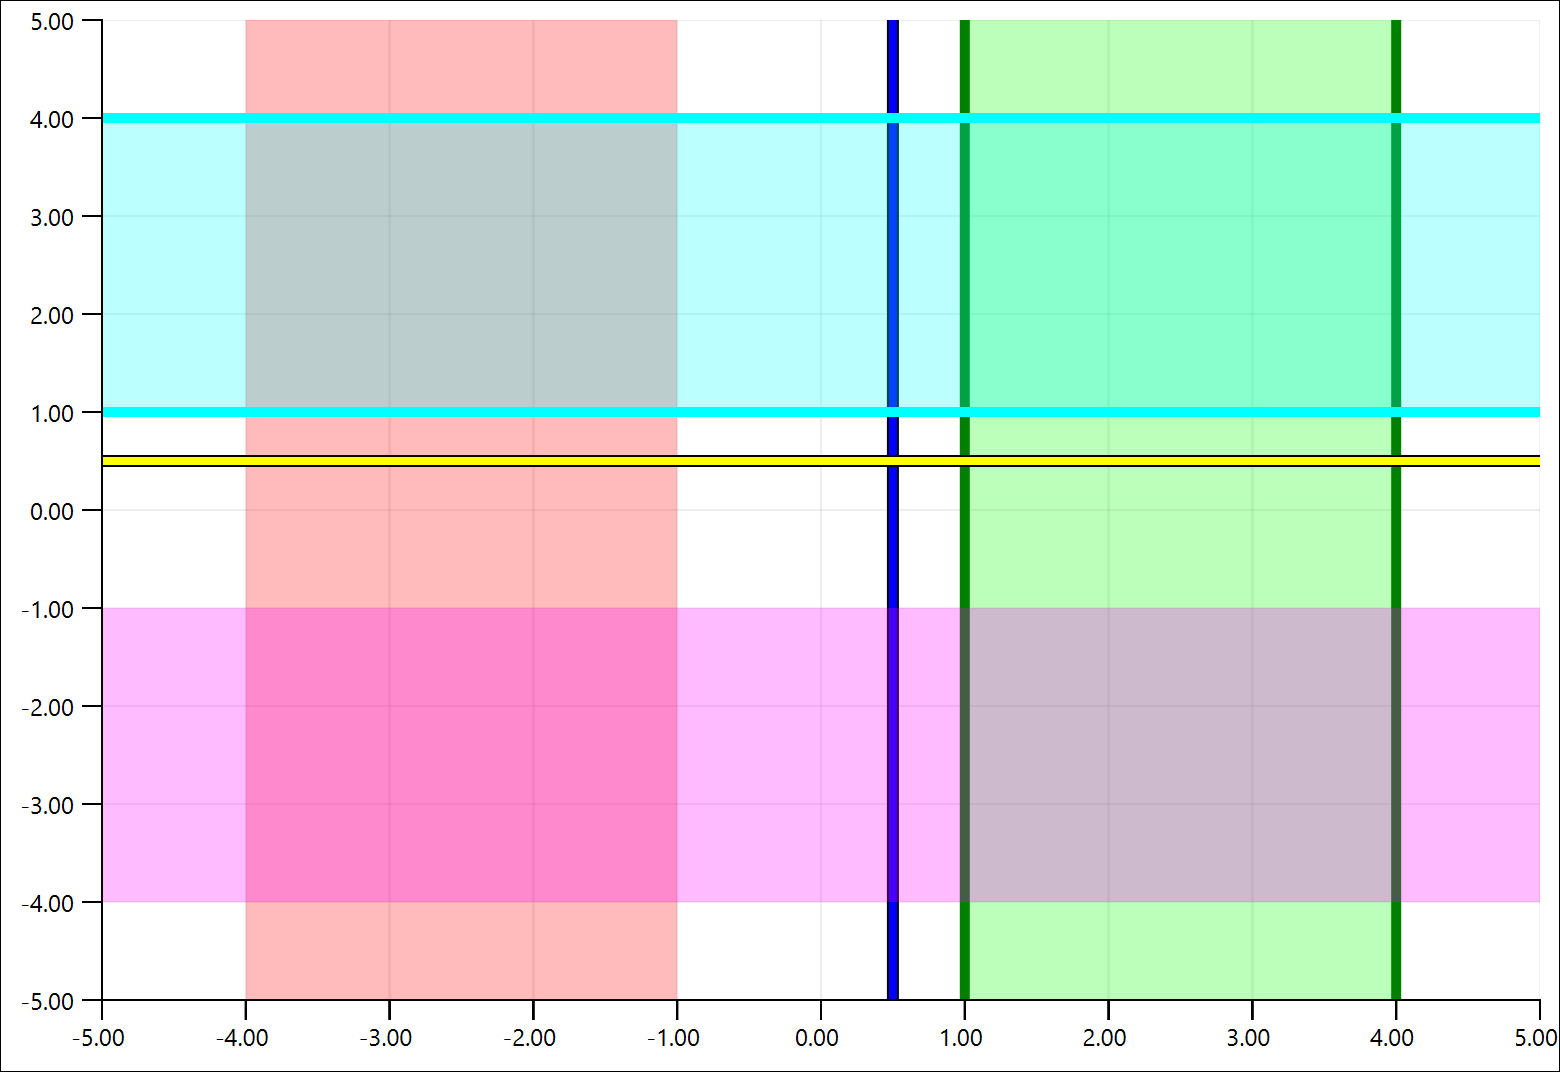
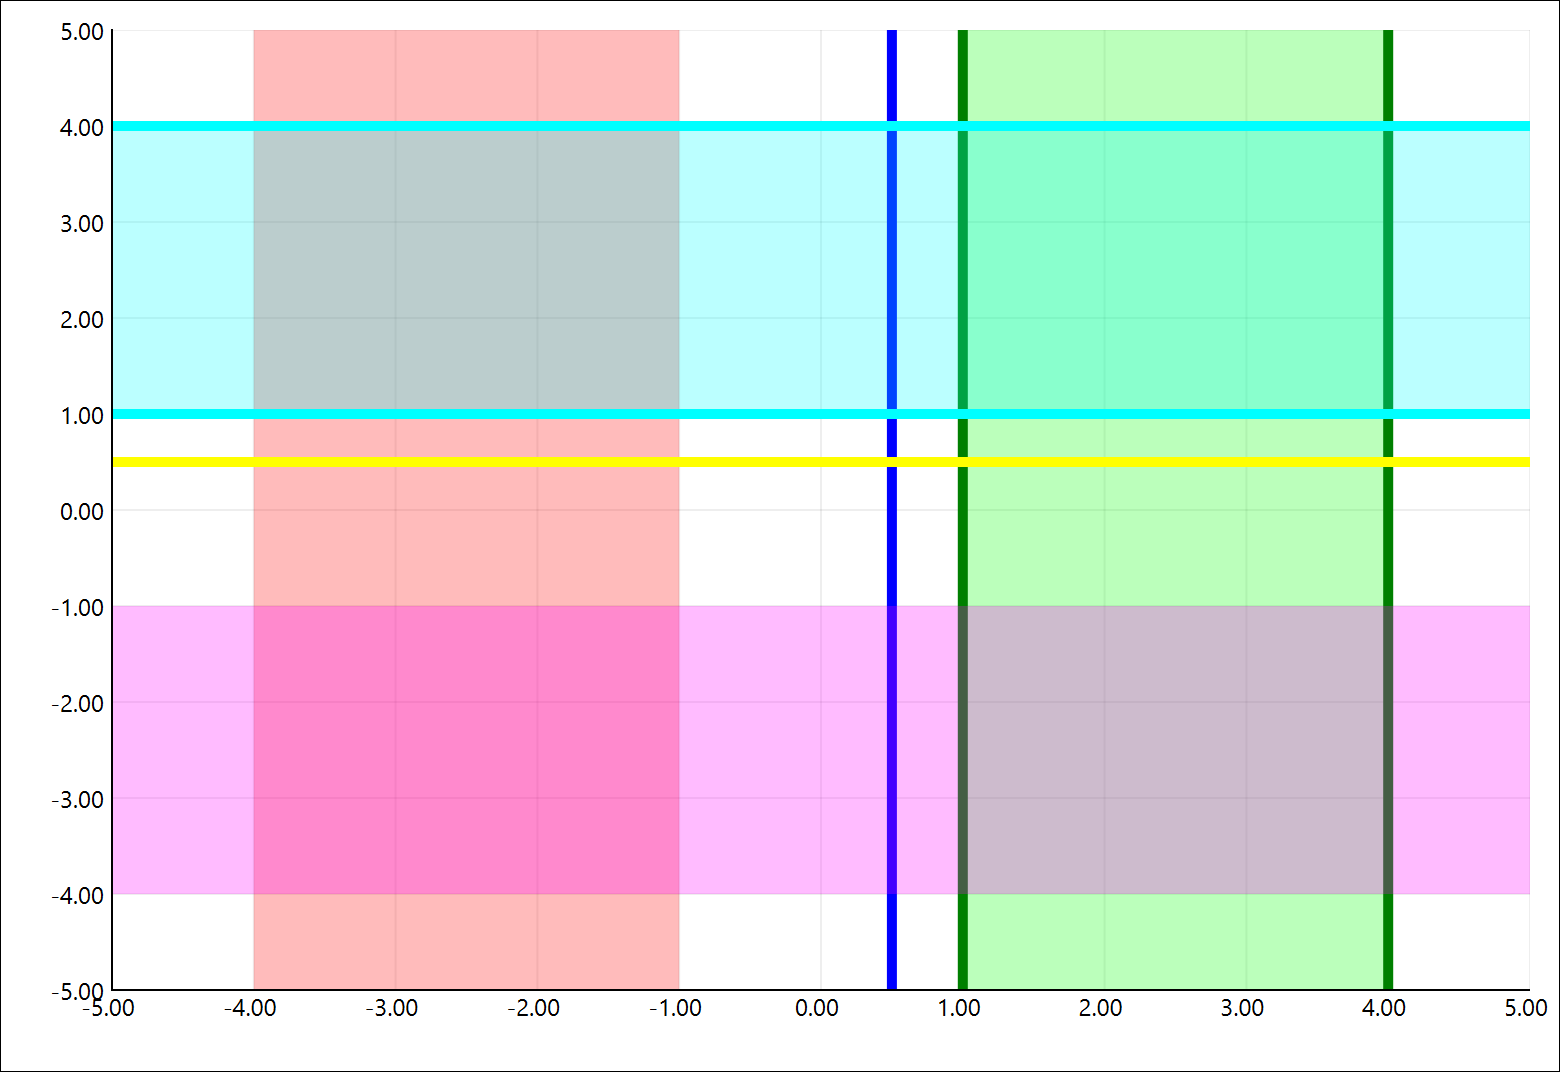
Update examples etc. to match new API

diff --git a/QuickGraphLib/PreFabs/XYAxes.qml b/QuickGraphLib/PreFabs/XYAxes.qml
@@ -90,9 +90,9 @@ QuickGraphLib.AntialiasingContainer {
                 id: grid
 
                 dataTransform: grapharea.dataTransform
-                viewRect: grapharea.viewRect
                 strokeColor: "#11000000"
                 strokeWidth: 1
+                viewRect: grapharea.viewRect
                 xTicks: QuickGraphLib.Helpers.tickLocator(grapharea.effectiveViewRect.x, grapharea.effectiveViewRect.x + grapharea.effectiveViewRect.width, root.numXTicks)
                 yTicks: QuickGraphLib.Helpers.tickLocator(grapharea.effectiveViewRect.y, grapharea.effectiveViewRect.y + grapharea.effectiveViewRect.height, root.numYTicks)
             }

diff --git a/examples/Complex.qml b/examples/Complex.qml
@@ -59,10 +59,9 @@ Item {
                     }
                     QGLGraphItems.Grid {
                         dataTransform: grapharea.dataTransform
-                        parentHeight: grapharea.height
-                        parentWidth: grapharea.width
                         strokeColor: "#11000000"
                         strokeWidth: 1
+                        viewRect: grapharea.viewRect
                         xTicks: xAxis.ticks
                         yTicks: yAxis.ticks
                     }

diff --git a/examples/TwinX.qml b/examples/TwinX.qml
@@ -35,10 +35,9 @@ QuickGraphLib.AntialiasingContainer {
 
                 QGLGraphItems.Grid {
                     dataTransform: grapharea.dataTransform
-                    parentHeight: grapharea.height
-                    parentWidth: grapharea.width
                     strokeColor: "#11000000"
                     strokeWidth: 1
+                    viewRect: grapharea.viewRect
                     xTicks: xAxis.ticks
                     yTicks: yAxis.ticks
                 }

diff --git a/examples/ScalingGraph.qml b/examples/ScalingGraph.qml
@@ -55,10 +55,9 @@ Item {
 
                 QGLGraphItems.Grid {
                     dataTransform: grapharea.dataTransform
-                    parentHeight: grapharea.height
-                    parentWidth: grapharea.width
                     strokeColor: "#11000000"
                     strokeWidth: 1
+                    viewRect: grapharea.viewRect
                     xTicks: xAxis.ticks
                     yTicks: yAxis.ticks
                 }

diff --git a/examples/AllTheAxes.qml b/examples/AllTheAxes.qml
@@ -44,10 +44,9 @@ QuickGraphLib.AntialiasingContainer {
 
             QGLGraphItems.Grid {
                 dataTransform: grapharea.dataTransform
-                parentHeight: grapharea.height
-                parentWidth: grapharea.width
                 strokeColor: "#11000000"
                 strokeWidth: 1
+                viewRect: grapharea.viewRect
                 xTicks: xAxis.ticks
                 yTicks: yAxis.ticks
             }

diff --git a/examples/BasicSinGraphNoPrefabs.qml b/examples/BasicSinGraphNoPrefabs.qml
@@ -35,10 +35,9 @@ QuickGraphLib.AntialiasingContainer {
 
             QGLGraphItems.Grid {
                 dataTransform: grapharea.dataTransform
-                parentHeight: grapharea.height
-                parentWidth: grapharea.width
                 strokeColor: "#11000000"
                 strokeWidth: 1
+                viewRect: grapharea.viewRect
                 xTicks: xAxis.ticks
                 yTicks: yAxis.ticks
             }

diff --git a/QuickGraphLib/GraphItems/Grid.qml b/QuickGraphLib/GraphItems/Grid.qml
@@ -17,6 +17,7 @@ QQS.ShapePath {
 
     property QGLGraphItems.GridHelper _helper: QGLGraphItems.GridHelper {
         id: helper
+
     }
 
     /*! TODO */
@@ -29,6 +30,7 @@ QQS.ShapePath {
     property alias yTicks: helper.yTicks
 
     capStyle: QQS.ShapePath.RoundCap
+    fillColor: "transparent"
     joinStyle: QQS.ShapePath.RoundJoin
 
     PathMultiline {

diff --git a/examples/DarkSinGraph.qml b/examples/DarkSinGraph.qml
@@ -10,7 +10,7 @@ QGLPreFabs.XYAxes {
     id: axes
 
     background.color: "black"
-    grid.strokeColor: "#11ffffff"
+    grid.strokeColor: "#33ffffff"
     viewRect: Qt.rect(-20, -1.1, 760, 2.2)
     xAxis.labelColor: "#ffaaaa"
     xAxis.strokeColor: "white"

diff --git a/QuickGraphLib/GraphItems/AxVLine.qml b/QuickGraphLib/GraphItems/AxVLine.qml
@@ -18,6 +18,7 @@ Rectangle {
     /*! TODO */
     required property double position
 
+    border.width: 0
     height: parent.height + border.width * 4
     width: 2
     x: root.dataTransform.map(Qt.point(position, 0)).x - width / 2

diff --git a/QuickGraphLib/GraphItems/AxHLine.qml b/QuickGraphLib/GraphItems/AxHLine.qml
@@ -18,6 +18,7 @@ Rectangle {
     /*! TODO */
     required property double position
 
+    border.width: 0
     height: 2
     width: parent.width + border.width * 4
     x: -border.width * 2

diff --git a/examples/gallery.py b/examples/gallery.py
@@ -1,7 +1,6 @@
 # SPDX-FileCopyrightText: Copyright (c) 2024 Matthew Joyce and other QuickGraphLib contributors
 # SPDX-License-Identifier: MIT
 
-import os
 import pathlib
 import re
 import sys
@@ -19,12 +18,7 @@ if __name__ == "__main__":
     QtQml.QQmlDebuggingEnabler.enableDebugging(True)
     app = QtGui.QGuiApplication(sys.argv)
     engine = QtQml.QQmlApplicationEngine()
-    # engine.addImportPath(EXAMPLES_DIR.parent)
-    print(os.getpid())
-    engine.addImportPath(
-        EXAMPLES_DIR.parent.parent
-        / "build-QuickGraphLib-Desktop_Qt_6_5_1_MSVC2019_64bit-RelWithDebInfo"
-    )
+    engine.addImportPath(EXAMPLES_DIR.parent / "build")
 
     examples = []
     for f in EXAMPLES_DIR.glob("*.qdoc"):

diff --git a/setup.py b/setup.py
@@ -1,5 +1,10 @@
+# SPDX-FileCopyrightText: Copyright (c) 2024 Matthew Joyce and other QuickGraphLib contributors
+# SPDX-License-Identifier: MIT
+
 import multiprocessing
+import os
 import pathlib
+import shlex
 
 from setuptools import Extension, setup
 from setuptools.command.build_ext import build_ext as build_ext_orig
@@ -36,6 +41,7 @@ class build_ext(build_ext_orig):
                 str(build_temp),
                 f"-DCMAKE_BUILD_TYPE={config}",
                 "-DINSTALL_SUBPATH=.",
+                *shlex.split(os.environ.get("CMAKE_BUILD_FLAGS", "")),
             ]
         )
         self.spawn(
